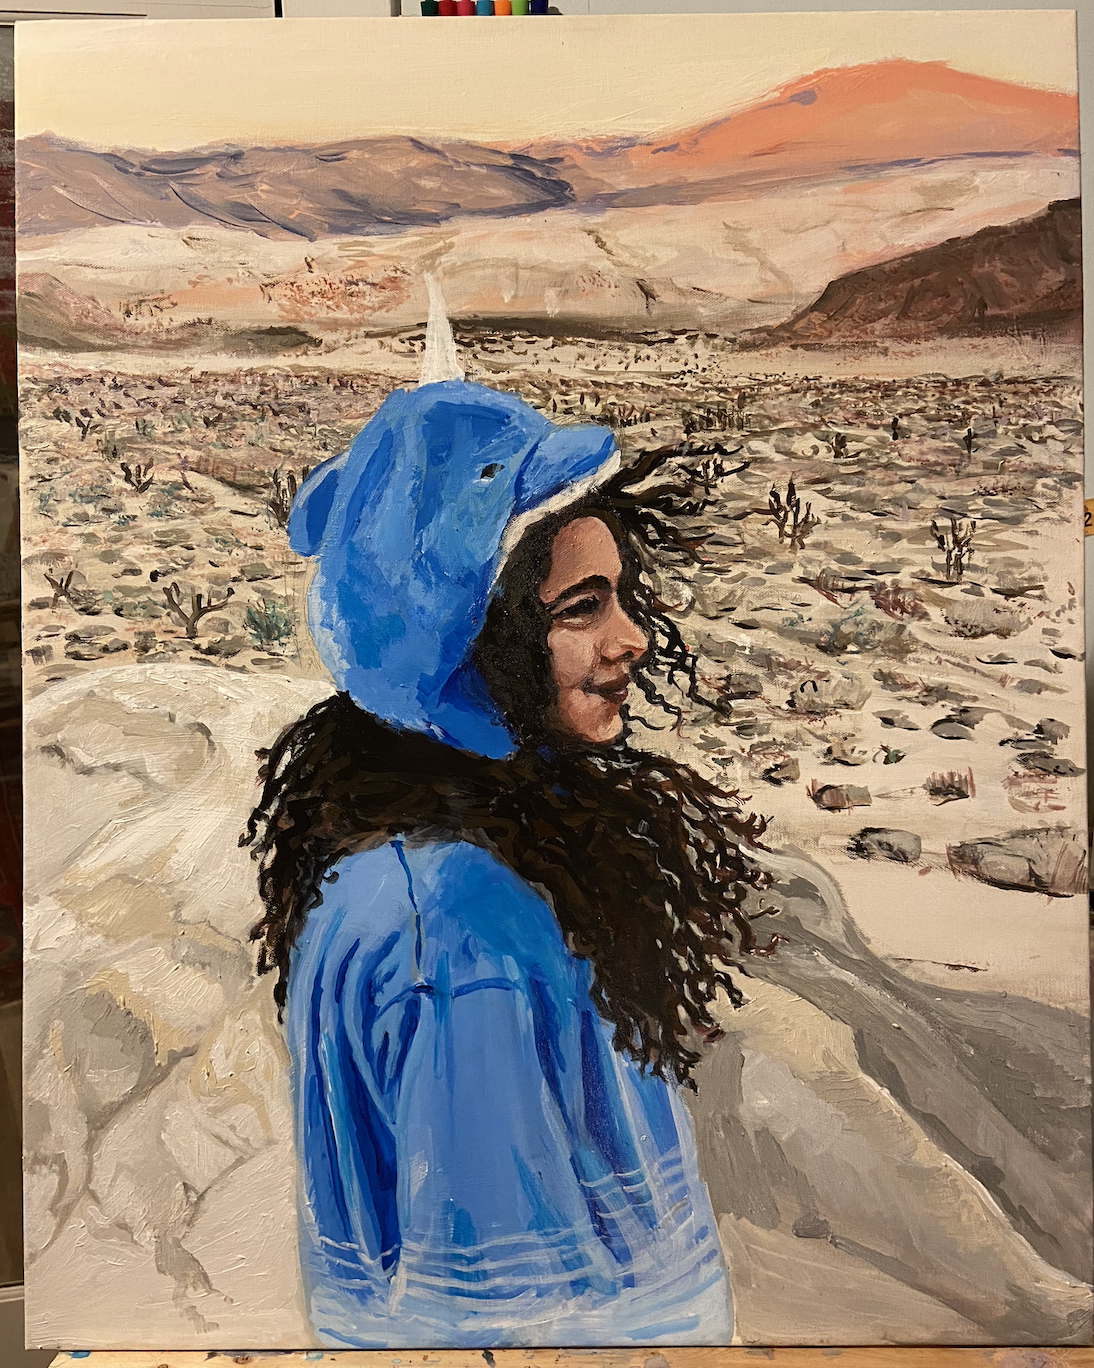
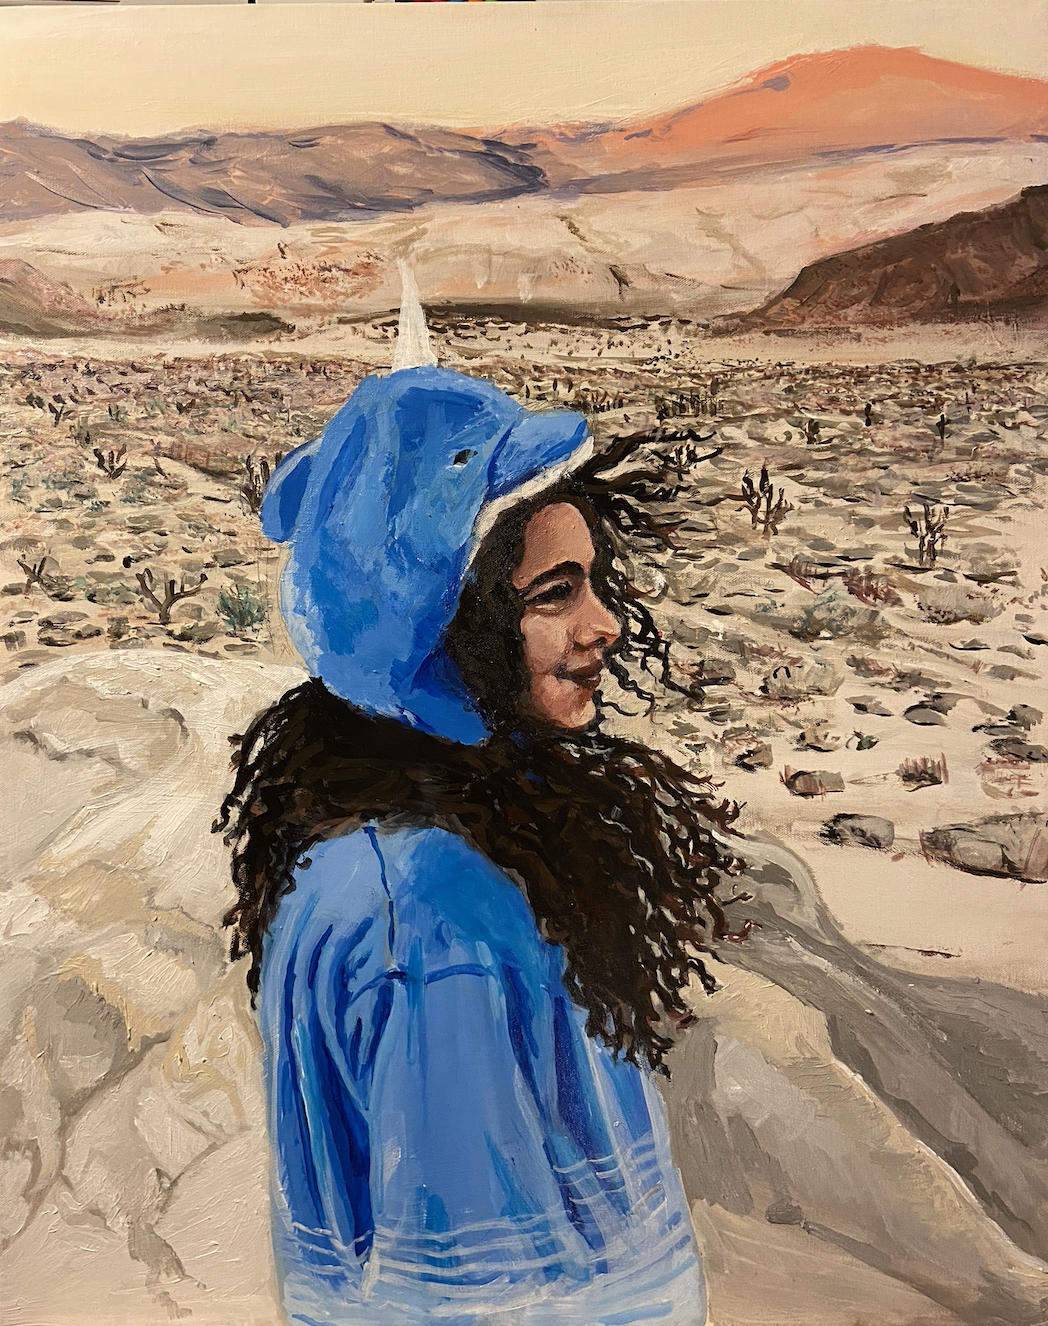
peepoo

diff --git a/_pages/gallery.md b/_pages/gallery.md
@@ -14,7 +14,7 @@ nav_order: 2
   </div>
 
   <div class="gallery-item">
-    <img src="{{ '/assets/img/paintings/cowboy-james.png' | relative_url }}" alt="Kitchen Cowboy" style="width: 250px;"/>
+    <img src="{{ '/assets/img/paintings/kitchen-cowboy.png' | relative_url }}" alt="Kitchen Cowboy" style="width: 250px;"/>
     <p class="caption">kitchen cowboy</p>
   </div>
 
@@ -24,7 +24,12 @@ nav_order: 2
   </div>
 
   <div class="gallery-item">
-    <img src="{{ '/assets/img/paintings/bart.png' | relative_url }}" alt="yellow line" style="width: 320px;"/>
+    <img src="{{ '/assets/img/paintings/screenager.png' | relative_url }}" alt="screenager" style="width: 320px;"/>
+    <p class="caption">screenager</p>
+  </div>
+
+  <div class="gallery-item">
+    <img src="{{ '/assets/img/paintings/bart.jpg' | relative_url }}" alt="yellow line" style="width: 320px;"/>
     <p class="caption">yellow-line</p>
   </div>
 
